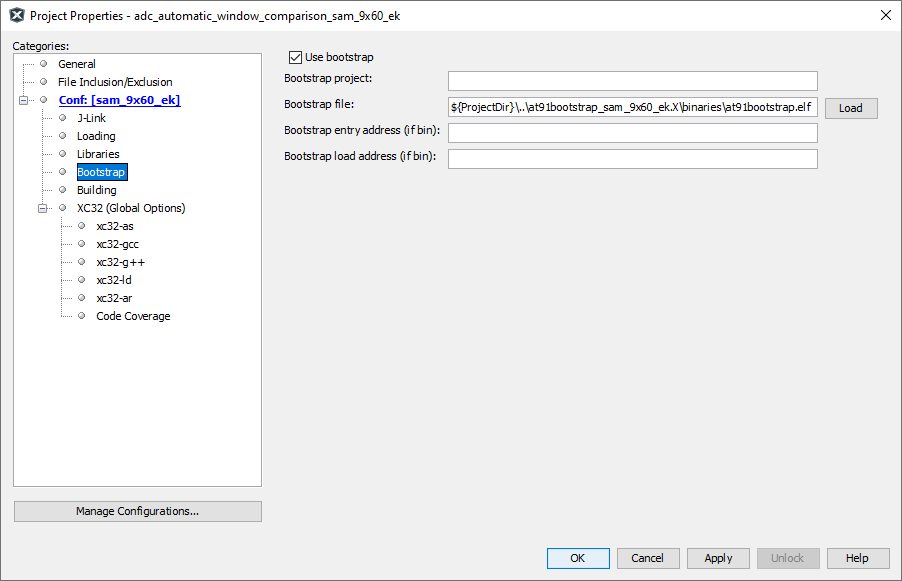
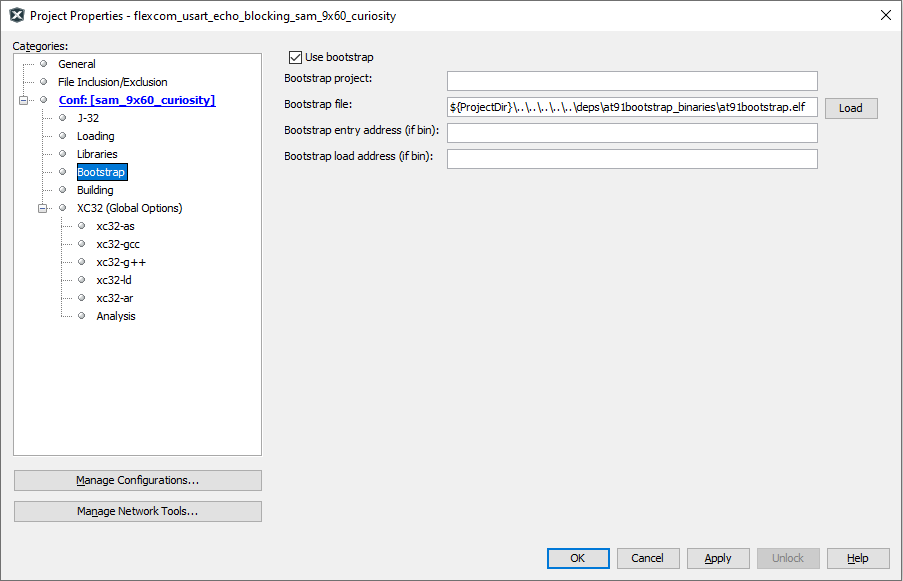
[Docs] Add common at91bootstrap documentation for csp_apps_sam_9x60
MH3-80867

diff --git a/apps/docs/readme_bootstrap.md b/apps/docs/readme_bootstrap.md
@@ -1,51 +1,32 @@
 ---
-title: Bootstrapping MPU applications using At91bootstrap loader
+title: Using at91boostrap loader with Harmony3 MPU applications
 nav_order: 2
 has_children: false
 has_toc: false
 ---
 [![MCHP](https://www.microchip.com/ResourcePackages/Microchip/assets/dist/images/logo.png)](https://www.microchip.com)
 
-# Bootstrapping MPU applications using At91bootstrap loader
+# Using at91boostrap loader with Harmony3 MPU applications
 
-MPU applications are linked to execute from external DRAM memory that is available on the evaluation kit. This require all peripherals and clock leading to the DRAM memory to be configured prior to the application being programmed. This is done using a bootstrap loader.
+MPU harmony3 applications are compiled and linked to execute from external DRAM memory that is available on the corresponding evaluation kit. This require all peripherals and clock leading to the DRAM memory to be configured prior to the application being programmed into DRAM. This is achieved using a bootstrap loader. We use [AT91bootstrap](https://github.com/linux4sam/at91bootstrap) loader for this purpose.
 
-Bootstrap loader project used for this purpose is a variant of the AT91Bootstrap project available for Microchip MPUs. It can be downloaded from [here](https://github.com/linux4sam/at91bootstrap/tree/at91bootstrap-3.x-mplabx). This project is adapted to be used from within MPLABx IDE on both Windows and Linux.
+We have deployed the following pre-built bootstrap binaries inside our application repositories. They can be found under deps folder at the root of the repository.
 
-To facilitate the debugging and running of the MPU application, each application in this repository is bundled with its own copy of the AT91Bootstrap project. Each copy of the bootstrap project can be found under same folder as the application project and is named and is prefixed with "at91bootstrap_". For eg: if the application folder name is sam_9x60_ek.X, then bootstrap project folder will be named at91bootstrap_sam_9x60_ek.X and will be present at the same folder level.
+| Binary Name      | Description                                    |
+| ---------------- | ---------------------------------------------- |
+| at91bootstrap.elf | Bootstrap which allows debug or run application using MPLABx |
+| boot.bin  | Bootstrap which allows booting application using an SD Card |
 
-Bootstrap project is configured to load and execute a raw binary file named "harmony.bin" from the SD card. SD card slot to be used shall vary with the evaluation kit.
-
-Each application project is configured with a post build step which will generate the necessary binary file named "harmony.bin" at the end of each build.
-
-If you are only interested in running or debugging the MPU applications in this repository , you can skip the following sections and  and jump straight to [Debugging MPU application using MPLABx](#debugging-mpu-applications-using-mplabx). Each copy of the bootstrap project in this repository is preconfigured to the correct evaluation kit.Also, the bootstrap binary files required to program and run the  applications are checked into the repository.
-
-## Building AT91Bootstrap project
-
-- Bootstrap project can be configured using MPLABx using its KCONFIG menu. To do this, open the project in MPLABx, right click on the project and select  "properties". In categories, select "Kconfig" as shown below:
-
-    ![kconfig](images/kconfig.png)
-
-- Click on "LOAD" button and navigate to the boards folder inside the project. Choose the a  default configuration file (defconfig) config file to select a target evaluation board and boot method
-  - For eg: If you want to boot harmony.bin file from sd card for SAM9X60 evaluation kit, navigate to board/sam9x60ek folder and select "sam9x60eksd_harmony_defconfig" file
-
-- Click on "Apply" and "OK" buttons to configure the project
-
-- Build the project to generate the bootstrap binaries
-
-- *Note: At91bootstrap project requires arm-gcc to build it. XC32 toolchain is not supported yet*
-
-## Configure MPLABx application to use AT91Bootstrap loader
-
-MPLABx debugger relies on AT91Bootstrap to configure the board before programming the application binaries. To configure an application to use AT91Bootstrap, follow the steps detailed below:
+To use at91boostrap to load and run harmony applications from MPLABx, it should be build with "bkpt_none_defconfig" configuration. If you are intrested in building at91bootstrap using MPLABx, you can read about it [here](readme_bootstrap_build.md).
 
 ### Configure a debug tool
 
+- Open the MPLABx applicaton that you want to debug or run in MPLABx.
 - Right click on the application project and select properties. This will open the properties window. In the configuration option --> connected hardware tools, select the debugger.
 
     ![select_debugger](images/select_debug.png)
 
-    *Note: if no debugger is connected, click on the "show all" check box and select the supported debugger. Only Jlink options are supported*
+    *Note: if no debugger is connected, click on the "show all" check box and select the supported debugger*
 
 - Select the target toolchain and click on apply to save the changes
 
@@ -59,31 +40,24 @@ MPLABx debugger relies on AT91Bootstrap to configure the board before programmin
 
 - Click on the "LOAD" button to load the bootstrap file. This will open a file picker, which allows you to choose the bootstrap binary file.
 
-- Navigate to the "binaries" folder under the AT91Bootstrap project folder. This contains the build output of the  bootstrap project. You can either choose the "AT91Bootstrap.elf" file or "boot.bin" file
-  - If ELF file is choosen, the "Bootstrap entry address" and the "Bootstrap load address" text box can be left empty as this information can be read from the ELF file
-  - If BIN file is chosen, the bootstrap entry address and the load address should be filled in their corresponding text boxes
-  - An example configuration can be seen below. Here a relative path is used with respect to the project directory, to make the configuration portable
+- Navigate to the {repository root}/deps/{board name}/at91bootstrap_binaries folder as explained in the previous section. You should choose "at91bootstrap.elf" file (The "Bootstrap entry address" and the "Bootstrap load address" text box can be left empty as this information will be read from the ELF file automatically)
 
-      ![configured_bootstrap](images/configured_bootstrap.png)
+    ![configured_bootstrap](images/configured_bootstrap.png)
 
-## Debugging MPU applications using MPLABx
+## Run/Debug MPU applications using MPLABx
 
-Once the applicaton is configured to use bootstrap loader, debugging the application is as simple right clicking the application and selecting "Debug" option. This will cause debugger to perform a two stage loading:
+You can now Run/Debug the MPU application just like any other MPLABx applications. When executed, MPLABx performs a two stage loading:
 
 **Stage 1:** Loads the bootstrap loader into the internal SRAM and executes it. This will configure the board specific peripherals and memory
 
 **Stage 2:** Loads the application into the external DRAM and debugs it. User can perform actions like setting breakpoints, single-stepping etc.
 
-Debugging the applicaton using MPLABx has the following limitations:
+When using MPLABx to debug a harmony application, you will face the following limitations:
 
-1. Running application using debugger is not supported
-2. Call stack is not supported
-3. Step in, step out using debugger does not work
+- Call stack is not fully supported yet, hence stepping in and out of functions may not work correctly.
 
-*Note:* Make sure that you reset the board between each debug sessions so that the debugger can attach to the target correctly
+## Boot to application using SD card
 
-## Running MPU applications
-
-To run the applications, copy both the application binary named "harmony.bin" and the bootstrap binary named "boot.bin" onto an SD card. Insert the SD card into the SD slot of the evaluation kit and press the reset button.
+Copy both the application binary named "harmony.bin" and the bootstrap binary named "boot.bin" onto an SD card. Insert the SD card into the SD slot of the evaluation kit and press the reset button.
 
 The ROM bootloader will copy the bootstrap binary "boot.bin" into the internal SRAM and executes it. The bootstrap will configure the external DRAM and the required peripherals, then copy the applicaton binary "harmony.bin" into the DRAM and executes it.

diff --git a/apps/docs/readme_bootstrap_build.md b/apps/docs/readme_bootstrap_build.md
@@ -1,0 +1,65 @@
+---
+title: Building AT91Bootstrap project using MPLABx
+nav_order: 2
+has_children: false
+has_toc: false
+---
+[![MCHP](https://www.microchip.com/ResourcePackages/Microchip/assets/dist/images/logo.png)](https://www.microchip.com)
+
+
+# Building AT91Bootstrap project using MPLABx
+
+- Open a console and execute the following command to clone at91bootstrap repository into a directory named at91bootstrap.X
+
+    ```bash
+    git clone https://github.com/linux4sam/at91bootstrap at91bootstrap.X
+    ```
+- Open at91bootstrap.X directory as project in MPLABx
+
+## Configure compiler
+
+- Open project properties window, and choose "Makefile" option to configure the compiler:
+
+    ![](images/properties_makefile.png)
+
+- Default option is configured to to use ARM gcc. To use xc32, replace all instances of arm-none-eabi- to xc32- as follows
+
+    ![](images/properties_makefile_xc32.png)
+
+*NOTE: For the build to be successful, the configured compiler should be available in the system path*
+
+## Configure target
+
+- Open project properties window, and choose "Kconfig" option to configure the build target:
+
+    ![](images/properties_kconfig.png)
+
+- Click on "LOAD" button and navigate to the configs folder inside at91bootstrap.X directory. You need to choose the default configuration file(defconfig) based on what you need the at91boostrap to do
+
+  **Debug/Run application from within MPLABx**
+
+  - Load *{evaluation_kit}_bkpt_none_defconfig*. For example, on SAM9X60 Curiosity Board, select **sam9x60_curiosity_bkptnone_defconfig** as the configuration file
+
+  - Click on "Apply" and "OK" buttons to configure the project
+
+    ![](images/properties_kconfig_bkpt_none.png)
+
+  - You can see that the MPU product is now selected as "SAM9X60" and the primary operation is selected as "Configure and Stop"
+
+  **Load and Run application from an SD card**
+
+  - Load *{evaluation_kit}sd_uboot_defconfig*. For example, on SAM9X60 Curiosity Board, select **sam9x60_curiositysd_uboot_defconfig** as the configuration file
+
+  - Click on "Apply" and "OK" buttons to configure the project
+
+    ![](images/properties_kconfig_sd_boot.png)
+
+  - You can see that the MPU product is now selected as "SAM9X60" and the primary operation is selected as "Load and launch next software"
+
+  - Edit the Option "Next Software Image File Name" from *u-boot.bin* to *harmony.bin*
+
+    ![](images/properties_kconfig_sd_boot_harmony.png)
+
+## Build target
+
+Once the target configuration is applied in the properties window, you can build the at91boostrap just like any other MPLABx project. After the build is complete, you can find the generated binary files under build/binaries directory.
